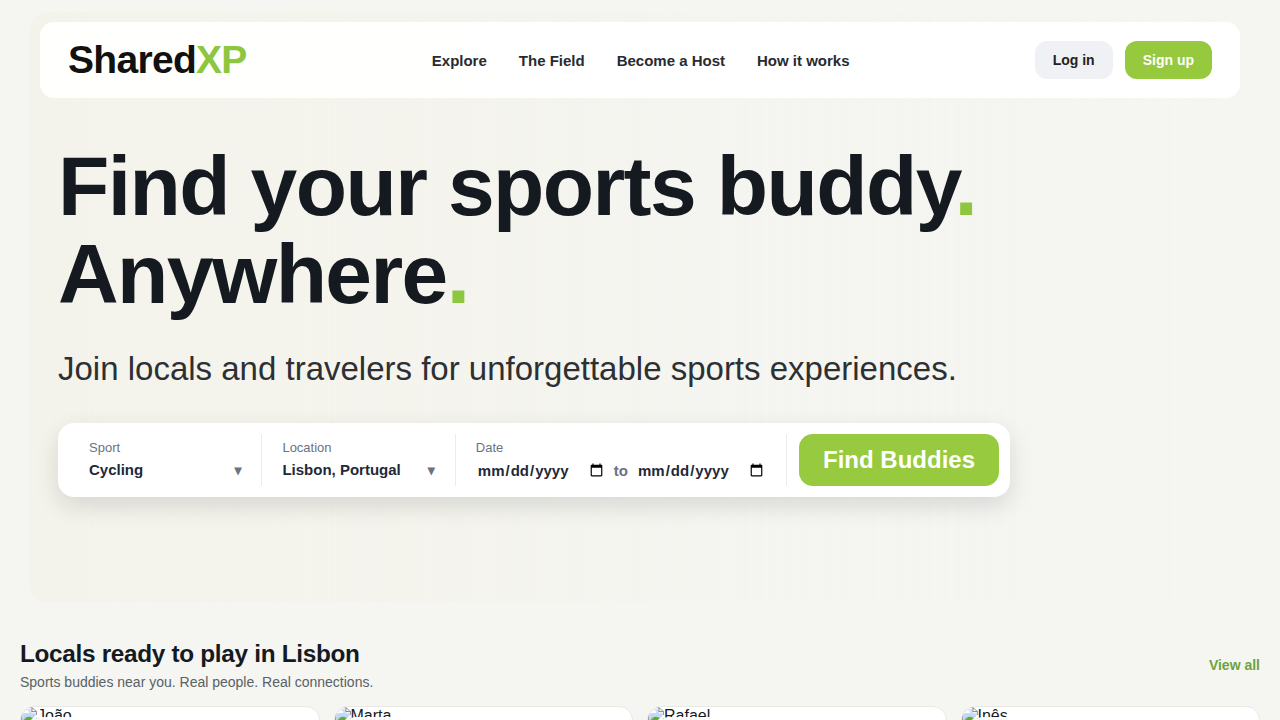
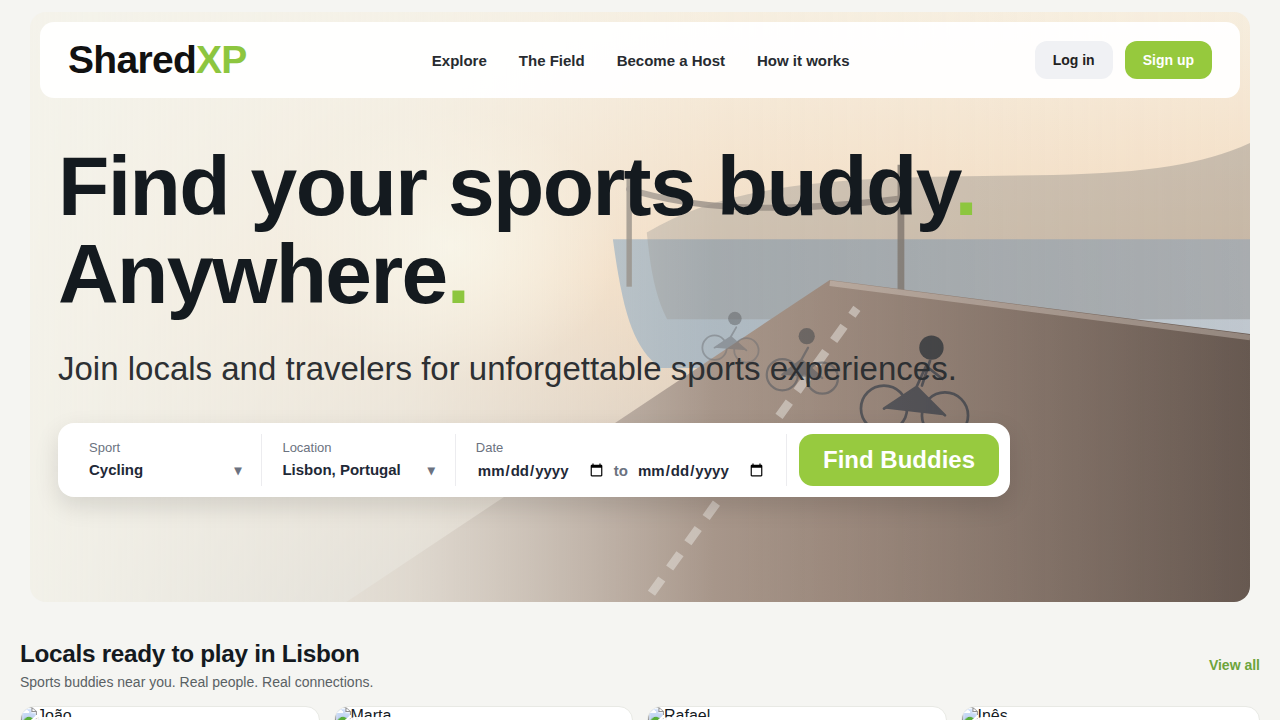
Restore hero fallback image layer to avoid blank background
Agent-Logs-Url: https://github.com/alpcapa/SharedXP/sessions/f4e1479d-0846-4711-9039-c33bdc35d716

diff --git a/src/style.css b/src/style.css
@@ -726,7 +726,8 @@ body {
   padding: 10px;
   background-image:
     linear-gradient(90deg, rgba(244, 243, 235, 0.97) 0%, rgba(244, 243, 235, 0.7) 31%, rgba(244, 243, 235, 0.2) 56%, rgba(244, 243, 235, 0.05) 100%),
-    url("https://github.com/user-attachments/assets/28ee797c-d0b8-45ba-b48b-f80493c09984");
+    url("https://github.com/user-attachments/assets/28ee797c-d0b8-45ba-b48b-f80493c09984"),
+    url("./assets/home-hero-cycling.svg");
   background-size: cover;
   background-position: center;
 }
